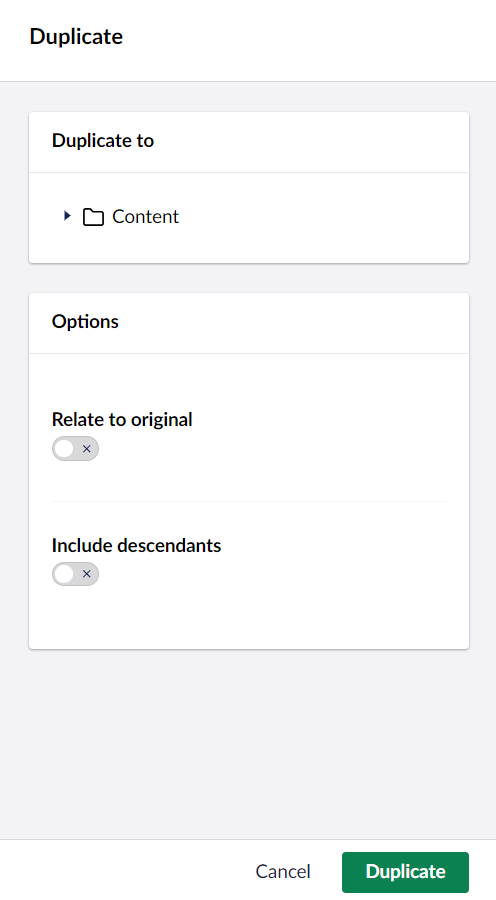
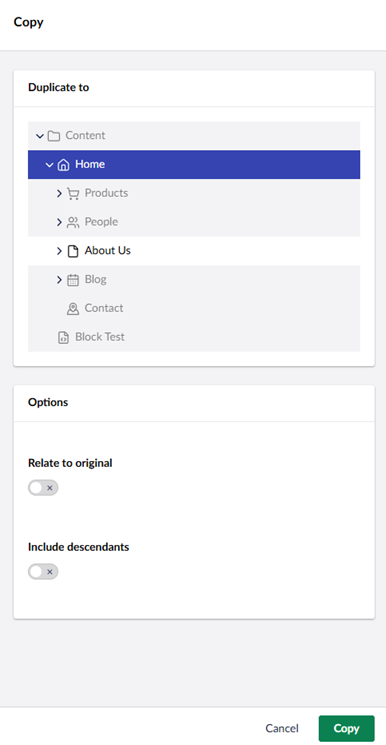
Merge pull request #8169 from umbraco/user-feedback-2
Addressed user feedbacks

Pull request: Addressed user feedbacks
## 📋 Description

- In the document blueprints article clarified that blueprints cannot be applied to existing content.
- Updated Copying a page article.

## 📎 Related Issues (if applicable)

<!-- List any related issues, e.g. "Fixes #1234" -->

## ✅ Contributor Checklist

I've followed the [Umbraco Documentation Style Guide](https://docs.umbraco.com/contributing/documentation/style-guide) and can confirm that:

* [ ] Code blocks are correctly formatted.
* [ ] Sentences are short and clear (preferably under 25 words).
* [ ] Passive voice and first-person language (“we”, “I”) are avoided.
* [ ] Relevant pages are linked.
* [ ] All links work and point to the correct resources.
* [ ] Screenshots or diagrams are included if useful.
* [ ] Any code examples or instructions have been tested.
* [ ] Typos, broken links, and broken images are fixed.

## Product & Version (if relevant)

CMS v17 and v18

## Deadline (if relevant)

Anytime

## 📚 Helpful Resources

* 🧾 [Umbraco Contribution Guidelines](https://docs.umbraco.com/contributing)
* ✍️ [Umbraco Documentation Style Guide](https://docs.umbraco.com/contributing/documentation/style-guide)

diff --git a/17/umbraco-cms/get-started/backoffice-essentials/copying-a-page.md b/17/umbraco-cms/get-started/backoffice-essentials/copying-a-page.md
@@ -10,30 +10,31 @@ You can copy a page in two ways:
 
 1. Go to **Content**.
 2. Click **...** next to the page you wish to copy.
-3.  Select **Duplicate to**.
+3. Select **Duplicate to**.
 
-    ![Copy Menu 1](../../../.gitbook/assets/duplicate.png)
-4.  A window appears on the right side of the screen. Here, you can choose where you want to copy the page in the tree structure.
+![Copy Menu 1](../../.gitbook/assets/duplicate.png)
 
-    ![Copy Option 1](../../../.gitbook/assets/duplicate-options.png)
-5. Toggle **Relate to original** button if you want to keep the links linked to the original page.
-6. Toggle **Include descendants** if you want to copy the child pages alongside the parent page.
-7. Click **Duplicate**.
-8. A confirmation message appears. Click **OK** to dismiss the confirmation message.
+A window appears on the right side of the screen. Here, you can choose where you want to copy the page in the tree structure.
+
+![Copy Option 1](../../.gitbook/assets/duplicate-options.png)
+4. Toggle **Relate to original** button if you want to keep the links linked to the original page.
+5. Toggle **Include descendants** if you want to copy the child pages alongside the parent page.
+6. Click **Copy**.
 
 ## Option 2
 
 1. Go to **Content**.
 2. Select the page you wish to copy.
-3. Click **Actions** in the top-right corner of the screen.
-4.  Select **Duplicate to** from the **Actions** drop-down menu.
+3. Click **...** next to the title of the page.
+4. Select **Duplicate to**.
 
-    ![Actions Menu](../../../.gitbook/assets/actions-duplicate-menu.png)
-5. A window appears on the right side of the screen. Here, you can choose where you want to copy the page in the tree structure.
-6. Toggle **Relate to original** button if you want to keep the links linked to the original page.
-7. Toggle **Include descendants** if you want to copy the child pages alongside the parent page.
-8. Click **Copy**.
-9. A confirmation message appears. Click **OK** to dismiss the confirmation message.
+![Actions Menu](../../.gitbook/assets/actions-duplicate-menu.png)
+
+A window appears on the right side of the screen. Here, you can choose where you want to copy the page in the tree structure.
+
+5. Toggle **Relate to original** button if you want to keep the links linked to the original page.
+6. Toggle **Include descendants** if you want to copy the child pages alongside the parent page.
+7. Click **Copy**.
 
 {% hint style="info" %}
 When you select **Relate to original**, Umbraco will create a relationship between the original and copied page. This relationship can be used to programmatically link the pages - For example, linking two pages in a multilingual setup. This relationship **does not** sync the content between the original and copied page.

diff --git a/18/umbraco-cms/get-started/backoffice-essentials/copying-a-page.md b/18/umbraco-cms/get-started/backoffice-essentials/copying-a-page.md
@@ -16,7 +16,7 @@ You can copy a page in two ways:
 
 1. Go to **Content**.
 2. Click **...** next to the page you wish to copy.
-3.  Select **Duplicate to**.
+3. Select **Duplicate to**.
 
 ![Copy Menu 1](../../.gitbook/assets/duplicate-18.png)
 
@@ -27,22 +27,21 @@ A window appears on the right side of the screen. Here, you can choose where you
 4. Toggle **Relate to original** button if you want to keep the links linked to the original page.
 5. Toggle **Include descendants** if you want to copy the child pages alongside the parent page.
 6. Click **Copy**.
-7. A confirmation message appears. Click **OK** to dismiss the confirmation message.
 
 ## Option 2
 
 1. Go to **Content**.
 2. Select the page you wish to copy.
-3. Click **Actions** in the top-right corner of the screen.
-4. Select **Duplicate to** from the **Actions** drop-down menu.
+3. Click **...** next to the title of the page.
+4. Select **Duplicate to**.
 
 ![Actions Menu](../../.gitbook/assets/actions-duplicate-menu-18.png)
 
-5. A window appears on the right side of the screen. Here, you can choose where you want to copy the page in the tree structure.
-6. Toggle **Relate to original** button if you want to keep the links linked to the original page.
-7. Toggle **Include descendants** if you want to copy the child pages alongside the parent page.
-8. Click **Copy**.
-9. A confirmation message appears. Click **OK** to dismiss the confirmation message.
+A window appears on the right side of the screen. Here, you can choose where you want to copy the page in the tree structure.
+
+5. Toggle **Relate to original** button if you want to keep the links linked to the original page.
+6. Toggle **Include descendants** if you want to copy the child pages alongside the parent page.
+7. Click **Copy**.
 
 {% hint style="info" %}
 When you select **Relate to original**, Umbraco will create a relationship between the original and copied page. This relationship can be used to programmatically link the pages - For example, linking two pages in a multilingual setup. This relationship **does not** sync the content between the original and copied page.

diff --git a/17/umbraco-cms/model-your-content/content-types-and-structure/backoffice/document-blueprints.md b/17/umbraco-cms/model-your-content/content-types-and-structure/backoffice/document-blueprints.md
@@ -77,6 +77,10 @@ To edit an existing document blueprint, follow these steps:
 
 Once you have created a document blueprint, you can use it to create new content nodes.
 
+{% hint style="info" %}
+Document Blueprints can only be selected when creating a new content node. They cannot be applied to existing content.
+{% endhint %}
+
 To use a document blueprint, follow these steps:
 
 1. Go to the **Content** section.

diff --git a/18/umbraco-cms/model-your-content/content-types-and-structure/backoffice/document-blueprints.md b/18/umbraco-cms/model-your-content/content-types-and-structure/backoffice/document-blueprints.md
@@ -72,6 +72,10 @@ To edit an existing document blueprint, follow these steps:
 
 Once you have created a document blueprint, you can use it to create new content nodes.
 
+{% hint style="info" %}
+Document Blueprints can only be selected when creating a new content node. They cannot be applied to existing content.
+{% endhint %}
+
 To use a document blueprint, follow these steps:
 
 1. Go to the **Content** section.